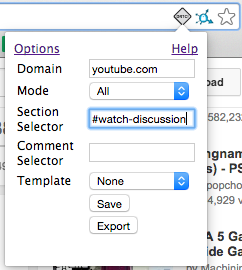
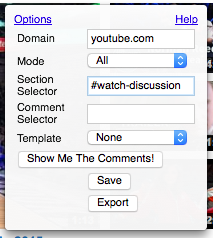
Updated help images and text for Firefox

diff --git a/firefox/data/html/help.html b/firefox/data/html/help.html
@@ -16,19 +16,19 @@
         <p><a href="create.html" target="_blank">How to create your own profiles</a></p>
         <img src="../images/profiles_table.png">
         <h3>Domain</h3>
-        <p>DRTC! determines which site your browser is on by using the domain part of the currently displayed page's URL. For example, if you're on <a href="http://www.bbc.com/news/">http://www.bbc.com/news</a>, the domain is <i>www.bbc.com</i>.</p>
+        <p>DRTC! determines which site your browser is on by using the domain part of the currently displayed page's URL. For example, if you're on <a href="http://www.bbc.com/news/">http://www.bbc.com/news</a>, the domain is <i>bbc.com</i>.</p>
         <p>Each DRTC! profile has a domain parameter which determines which pages it will be applied to. A profile with the domain <i>bbc.com</i>, for example, will apply to any page with a URL beginning with <i>bbc.com</i>, but not <i>bbc.co.uk</i>.</p>
         <p>DRTC! profiles can also use wildcards (*) in their domains to match multiple domains. For example, <i>bbc.co*</i> would match <i>bbc.com</i> and <i>bbc.co.uk</i>.</p>
         <p>As a final example, DRTC! also ignores subdomains when looking for a matching profile. So, a profile with <i>bbc.com</i> would also match <i>shop.bbc.com</i>.</p>
         <h3>Mode</h3>
         <p>DRTC! operates in one of three modes, which can be set per profile.</p>
         <ul>
-          <li><strong>All</strong> mode blocks the entire comment section on the site's pages at once.</li>
+          <li><strong>All</strong> mode blocks the entire comment section at once.</li>
           <li><strong>Individual</strong> mode blocks comments individually, based on the <a href="#options_section">comment severity threshold</a>.</li>
-          <li><strong>Disabled</strong> mode causes DRTC! to not operate on the site at all.</li>
+          <li><strong>Disabled</strong> mode causes DRTC! to not block anything at all.</li>
         </ul>
         <h3>Section and Comment Selectors</h3>
-        <p>DRTC! profiles use CSS selectors to tell it which page elements to block. The section selector specifies the entire comment section on the page, while the comment selector specifies individual comments. Only one of these selectors is needed at a time: a section selector for <strong>All</strong> mode, and a comment selector for <strong>Individual</strong> mode.</p>
+        <p>DRTC! profiles use CSS selectors to tell it which page elements to block. The section selector specifies the entire comment section on the page, while the comment selector specifies individual comments. Only one of these selectors is needed at a time: a section selector is required for <strong>All</strong> mode, and a comment selector for <strong>Individual</strong> mode.</p>
         <p>DRTC! supports all standard selector syntax, including <i>#</i> for ids, <i>.</i> for classes, and <i>,</i> to join multiple selectors.</p>
         <p>Learn more about using CSS selectors <a href="https://developer.mozilla.org/en-US/docs/Web/Guide/CSS/Getting_started/Selectors" target="_blank">here</a>.
         <h3>Template</h3>
@@ -42,8 +42,8 @@
       </div>
 
       <div id="page_action_section" class="help_section">
-        <h2>Page Action</h2>
-        <p>A <i>page action</i> is an icon in Chrome's omnibar. DRTC!'s page action shows a yellow diamond icon when DRTC! is enabled on the current page, and a grayed-out version when it is not.</p>
+        <h2>Action Button</h2>
+        <p>An <i>action button</i> is an icon in Firefox's toolbar. DRTC!'s action button shows a yellow diamond icon when DRTC! is enabled on the current page, and a grayed-out version when it is not.</p>
         <figure>
           <img src="../images/page_action_icon_disabled.png">
           <figcaption>Disabled</figcaption>
@@ -52,11 +52,12 @@
           <img src="../images/page_action_icon_enabled.png">
           <figcaption>Enabled</figcaption>
         </figure>
-        <p>Clicking DTRC!'s page action lets you see and configure the DRTC! profile for the current page.</p>
-        <img src="../images/page_action_not_enabled.png">
+        <p>Clicking DTRC!'s action button lets you see and configure the DRTC! profile for the current page.</p>
+        <img src="../images/page action disabled.png">
         <p>When DRTC! does not have a website profile matching the current page, it will show this message. You can click on "Enable" to start creating a profile.</p>
         <img src="../images/page_action_new.png">
-        <p>The page action dialog automatically fills in the site's domain. From here, you can fill in the comment section and/or comment selectors, or choose a <a href="#template_section">comment system template</a> to use. (See <a href="#profile_section">below</a> for more on creating a website profile.) Clicking "Save" will save your profile and reload the page, so that DRTC! can apply the new profile.</p>
+        <p>The action button dialog automatically fills in the site's domain. From here, you can fill in the comment section and/or comment selectors, or choose a <a href="#template_section">comment system template</a> to use. (See <a href="#profile_section">below</a> for more on creating a website profile.) Clicking <strong>Save</strong> will save your profile and reload the page, so that DRTC! can apply the new profile.</p>
+        <p>You can also use <strong>Show Me The Comments!</strong> to immediately disable DRTC! on the current site.</p>
       </div>
 
       <div id="options_section" class="help_section">
@@ -65,7 +66,7 @@
         <h3>Website Profiles</h3>
         <p>This table lists all <a href="#profile_section">website profiles</a> defined by DRTC!. You can add more using the "+" button at the bottom, or change any current profiles right in the table.  Remember to click "Save" to save your changes!</p>
         <h3>Comment System Templates</h3>
-        <p>Here you can add and edit <a href="#template_section">comment system templates</a>, just like in the profiles table. You'll need to save a new template before it can be used in a website profile.</p>
+        <p>Here you can add and edit <a href="#template_section">comment system templates</a>, just like in the profiles table. You'll need to save a new template before it can be used to create a website profile.</p>
         <h3>Comment Severity Threshold</h3>
         <p>When using Individual mode, DRTC! uses this setting to decide whether to hide an individual comment, based on what proportion of the words in it are in one of the bad word lists. A threshold of 0 (the default) causes DRTC! to hide all comments, and it can go up to 5.</p>
         <h3>Bad Word Lists</h3>
@@ -80,7 +81,7 @@
       </div>
       <div id="about_section" class="help_section">
         <h2>About</h2>
-        <p>DRTC! was written by <a href="https://github.com/drestuart/">Dan Stuart</a> in December 2013, and released sometime in the future. It is licensed under GPLv3. <a href="https://github.com/drestuart/dont-read-the-comments">Github</a></p>
+        <p>DRTC! was created by <a href="https://github.com/drestuart/">Dan Stuart</a> in December 2013, and released sometime in the future. It is licensed under GPLv3. <a href="https://github.com/drestuart/dont-read-the-comments">Github</a></p>
       </div>
     </div>
   </body>

diff --git a/chrome/help.html b/chrome/help.html
@@ -20,19 +20,19 @@
         <p><a href="create.html" target="_blank">How to create your own profiles</a></p>
         <img src="images/profiles_table.png">
         <h3>Domain</h3>
-        <p>DRTC! determines which site your browser is on by using the domain part of the currently displayed page's URL. For example, if you're on <a href="http://www.bbc.com/news/">http://www.bbc.com/news</a>, the domain is <i>www.bbc.com</i>.</p>
+        <p>DRTC! determines which site your browser is on by using the domain part of the currently displayed page's URL. For example, if you're on <a href="http://www.bbc.com/news/">http://www.bbc.com/news</a>, the domain is <i>bbc.com</i>.</p>
         <p>Each DRTC! profile has a domain parameter which determines which pages it will be applied to. A profile with the domain <i>bbc.com</i>, for example, will apply to any page with a URL beginning with <i>bbc.com</i>, but not <i>bbc.co.uk</i>.</p>
         <p>DRTC! profiles can also use wildcards (*) in their domains to match multiple domains. For example, <i>bbc.co*</i> would match <i>bbc.com</i> and <i>bbc.co.uk</i>.</p>
         <p>As a final example, DRTC! also ignores subdomains when looking for a matching profile. So, a profile with <i>bbc.com</i> would also match <i>shop.bbc.com</i>.</p>
         <h3>Mode</h3>
         <p>DRTC! operates in one of three modes, which can be set per profile.</p>
         <ul>
-          <li><strong>All</strong> mode blocks the entire comment section on the site's pages at once.</li>
+          <li><strong>All</strong> mode blocks the entire comment section at once.</li>
           <li><strong>Individual</strong> mode blocks comments individually, based on the <a href="#options_section">comment severity threshold</a>.</li>
-          <li><strong>Disabled</strong> mode causes DRTC! to not operate on the site at all.</li>
+          <li><strong>Disabled</strong> mode causes DRTC! to not block anything at all.</li>
         </ul>
         <h3>Section and Comment Selectors</h3>
-        <p>DRTC! profiles use CSS selectors to tell it which page elements to block. The section selector specifies the entire comment section on the page, while the comment selector specifies individual comments. Only one of these selectors is needed at a time: a section selector for <strong>All</strong> mode, and a comment selector for <strong>Individual</strong> mode.</p>
+        <p>DRTC! profiles use CSS selectors to tell it which page elements to block. The section selector specifies the entire comment section on the page, while the comment selector specifies individual comments. Only one of these selectors is needed at a time: a section selector is required for <strong>All</strong> mode, and a comment selector for <strong>Individual</strong> mode.</p>
         <p>DRTC! supports all standard selector syntax, including <i>#</i> for ids, <i>.</i> for classes, and <i>,</i> to join multiple selectors.</p>
         <p>Learn more about using CSS selectors <a href="https://developer.mozilla.org/en-US/docs/Web/Guide/CSS/Getting_started/Selectors" target="_blank">here</a>.
         <h3>Template</h3>
@@ -60,7 +60,8 @@
         <img src="images/page_action_not_enabled.png">
         <p>When DRTC! does not have a website profile matching the current page, it will show this message. You can click on "Enable" to start creating a profile.</p>
         <img src="images/page_action_new.png">
-        <p>The page action dialog automatically fills in the site's domain. From here, you can fill in the comment section and/or comment selectors, or choose a <a href="#template_section">comment system template</a> to use. (See <a href="#profile_section">below</a> for more on creating a website profile.) Clicking "Save" will save your profile and reload the page, so that DRTC! can apply the new profile.</p>
+        <p>The page action dialog automatically fills in the site's domain. From here, you can fill in the comment section and/or comment selectors, or choose a <a href="#template_section">comment system template</a> to use. (See <a href="#profile_section">below</a> for more on creating a website profile.) Clicking <strong>Save</strong> will save your profile and reload the page, so that DRTC! can apply the new profile.</p>
+        <p>You can also use <strong>Show Me The Comments!</strong> to immediately disable DRTC! on the current site.</p>
       </div>
 
       <div id="options_section" class="help_section">
@@ -69,7 +70,7 @@
         <h3>Website Profiles</h3>
         <p>This table lists all <a href="#profile_section">website profiles</a> defined by DRTC!. You can add more using the "+" button at the bottom, or change any current profiles right in the table.  Remember to click "Save" to save your changes!</p>
         <h3>Comment System Templates</h3>
-        <p>Here you can add and edit <a href="#template_section">comment system templates</a>, just like in the profiles table. You'll need to save a new template before it can be used in a website profile.</p>
+        <p>Here you can add and edit <a href="#template_section">comment system templates</a>, just like in the profiles table. You'll need to save a new template before it can be used to create a website profile.</p>
         <h3>Comment Severity Threshold</h3>
         <p>When using Individual mode, DRTC! uses this setting to decide whether to hide an individual comment, based on what proportion of the words in it are in one of the bad word lists. A threshold of 0 (the default) causes DRTC! to hide all comments, and it can go up to 5.</p>
         <h3>Bad Word Lists</h3>
@@ -84,7 +85,7 @@
       </div>
       <div id="about_section" class="help_section">
         <h2>About</h2>
-        <p>DRTC! was written by <a href="https://github.com/drestuart/">Dan Stuart</a> in December 2013, and released sometime in the future. It is licensed under GPLv3. <a href="https://github.com/drestuart/dont-read-the-comments">Github</a></p>
+        <p>DRTC! was created by <a href="https://github.com/drestuart/">Dan Stuart</a> in December 2013, and released sometime in the future. It is licensed under GPLv3. <a href="https://github.com/drestuart/dont-read-the-comments">Github</a></p>
       </div>
     </div>
   </body>

diff --git a/firefox/data/html/create.html b/firefox/data/html/create.html
@@ -7,14 +7,14 @@
     <div id="content">
       <h1>Creating a DRTC! Website Profile</h1>
       <div id="_section" class="help_section">
-        <p>Creating a new website profile is not overly complicated, but requires using some advanced Chrome tools.</p>
+        <p>Creating a new website profile is not overly complicated, but requires using some of Firefox's developer tools.</p>
         <ul>
           <li>Load the website you want to create the profile for, and find a page with comments.</li>
-          <li>Open the Chrome Developer Console with F12 (Windows, Linux) or Alt-Cmd-I (Mac).</li>
+          <li>Press F12 to open the Firefox Developer Console.</li>
         </ul>
         <img src="../images/developer console open.png">
         <ul>
-          <li>Click the magnifying glass icon at the top-left to enter Inspect mode.</li>
+          <li>Click the box-and-arrow icon at the top-left to enter Inspect mode.</li>
           <li>Highlight the comment section element as best you can one the page, and click it. This will highlight the corresponding HTML element in the Developer Console.</li>
         </ul>
         <img src="../images/inspect mode.png">
